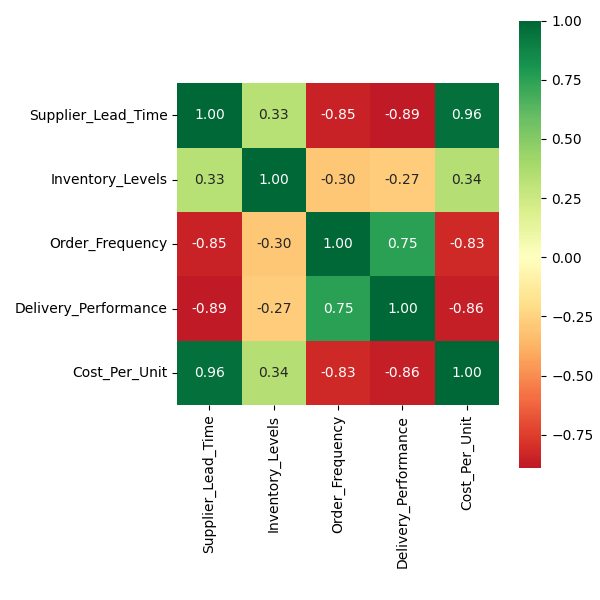
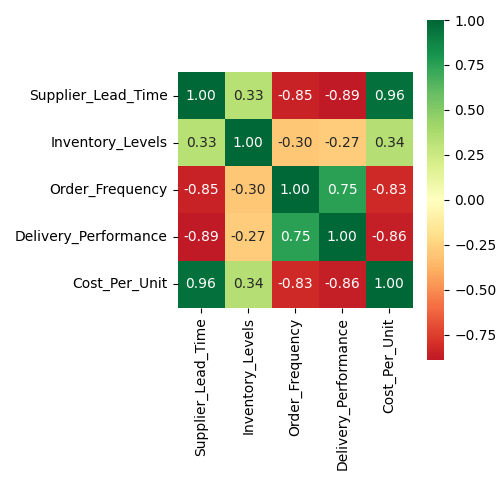
Add files via upload

Changed region(s): [[0.03, 0.03, 0.99, 0.96]]

diff --git a/generate_heatmap.py b/generate_heatmap.py
@@ -11,8 +11,9 @@ corr = raw_data.corr()
 # Save the correlation matrix to CSV
 corr.to_csv('correlation.csv')
 
-# Set up the matplotlib figure
-plt.figure(figsize=(6, 6))
+
+# Set up the matplotlib figure for 400x400 pixels (5x5 inches at 80 dpi)
+plt.figure(figsize=(5, 5), dpi=80)
 
 # Draw the heatmap with the red-white-green color map
 sns.heatmap(corr, annot=True, cmap='RdYlGn', center=0, fmt='.2f', square=True, cbar=True)
